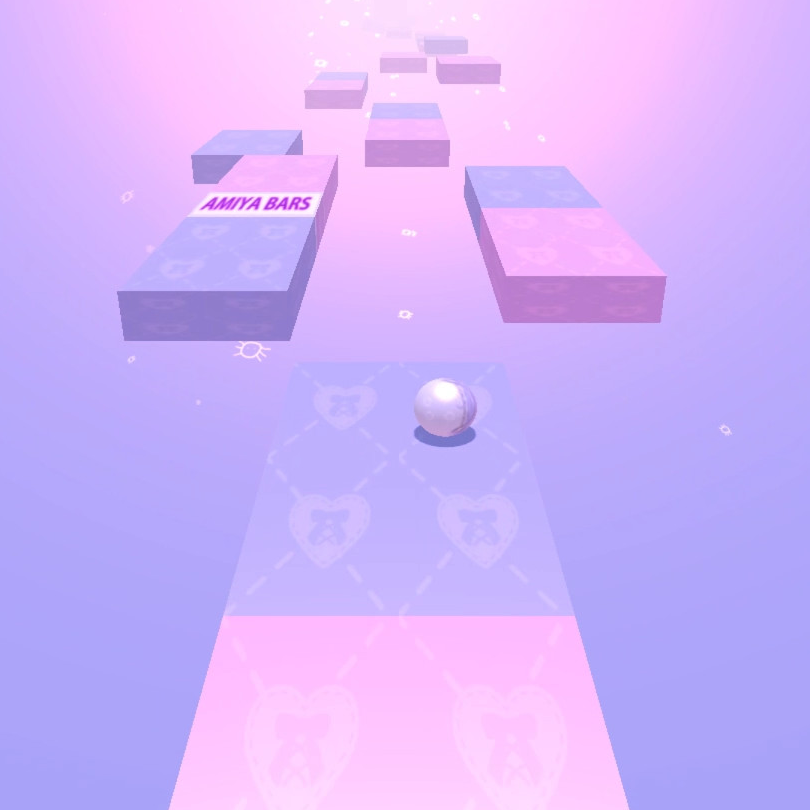
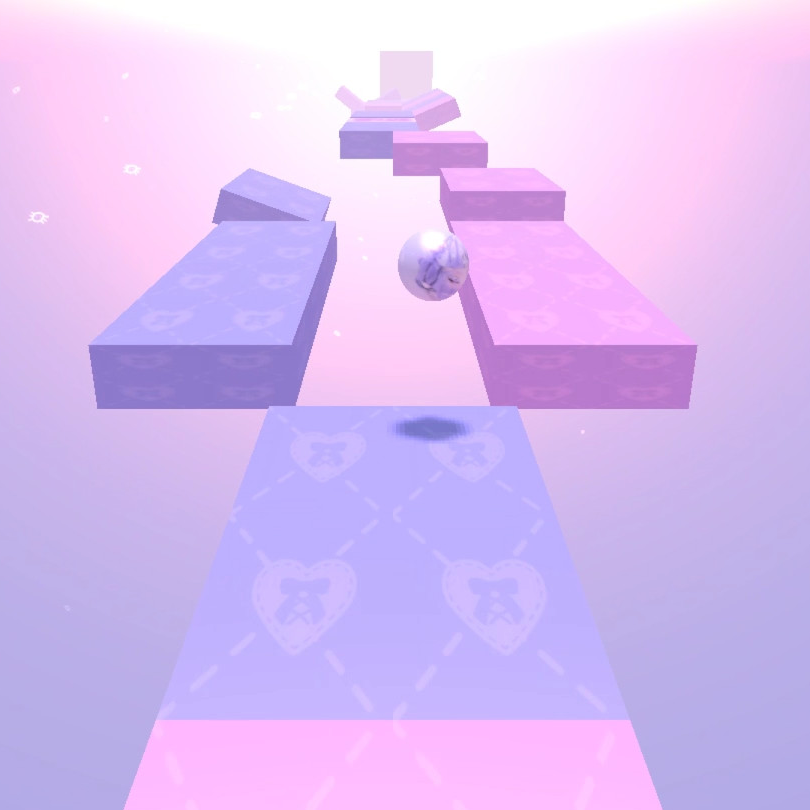
Replace level 1-2

diff --git a/js/maps/MapGenerator.js b/js/maps/MapGenerator.js
@@ -2,7 +2,7 @@ import * as THREE from 'three';
 import { ConvexGeometry } from '../jsm/geometries/ConvexGeometry.js';
 let mapData = {};
 mapData["1-1"] = "Tile0,c0bdf2,0,0.25,0,0,0,0|Tile1,ffbef4,-7.549517245077422e-14,0.2500004768371582,-11.999993324279785,-9.301209840306343e-14,1.1817645273406578e-33,-2.5410985186454742e-20|Tile2,c0bdf2,-3.3861802251067274e-14,0.2500009536743164,-24.000019073486328,-2.427072215080428e-13,-6.281645554053844e-34,5.176315327597851e-21|Tile3,ffbef4,6.522550105277428e-14,0.2500014305114746,-36.000064849853516,-1.875660217420805e-12,-1.9070465944374998e-31,2.033467017880087e-19|Tile4,c0bdf2,4.000000476837158,0.2500019073486328,-48.0001106262207,-3.761189276696442e-12,-6.690286628020419e-31,3.5575378614801786e-19|Tile5,ffbef4,4.000000476837158,0.250002384185791,-60.00015640258789,-5.6467179022912095e-12,9.663637573362777e-27,-3.422744943373801e-15|Tile6,c0bdf2,4.000000476837158,0.2500028610229492,-72.00004577636719,-7.532246527885977e-12,7.135962433915067e-25,-1.8947766532856347e-13|Tile7,ffbef4,4.000000476837158,0.2500033378601074,-83.99986267089844,-8.88764496026484e-12,1.754179236930123e-24,-3.947455697820429e-13|Tile8,c0bdf2,-0.6000004410743713,0.2500038146972656,-95.99967956542969,-1.0243043392643703e-11,3.072982304020927e-24,-6.000135284456309e-13|Tile9,ffbef4,-0.6000004410743713,0.25000429153442383,-107.99949645996094,-1.1598441825022565e-11,3.513949706890555e-24,-6.059347901904433e-13|Tile10,c0bdf2,-0.6000004410743713,0.25000476837158203,-119.99931335449219,-1.2953840257401428e-11,3.9629427786468064e-24,-6.118560519352556e-13|Tile11,ffbef4,-0.6000004410743713,-0.549994945526123,-131.59913635253906,-0.15041569556705242,4.6159394472277037e-14,-6.160393375975735e-13|Tile12,c0bdf2,-0.6000003218650818,-1.473527193069458,-143.5514678955078,-0.000020194444006400938,9.19529896793969e-13,-9.106761211796777e-8|Tile13,ffbef4,-0.6000003218650818,-1.473527193069458,-155.55128479003906,-0.000020194444006400938,9.19529896793969e-13,-9.106761211796777e-8|Tile14,c0bdf2,-0.6000003218650818,0.3264729976654053,-168.35108947753906,0.33764912185633267,-1.5095548775123893e-8,-9.099975528670269e-8|Tile15,ffbef4,-0.6000000834465027,2.1657118797302246,-179.32687377929688,-0.00003836862743842256,2.1520424084757622e-12,-1.1217719020351098e-7|Player,ffffff,3.000007390975952,6.915328502655029,-364.739990234375,0.0015631532491201209,0.006090078249492892,-0.0000045733961576767535|Tile17,c0bdf2,-0.5999994874000549,2.165323257446289,-191.3845672607422,-0.000043245228894029886,-8.958204388582269e-13,4.1429792929648115e-8|Tile18,ffbef4,-0.5999994874000549,2.165323257446289,-203.38438415527344,-0.000043245228894029886,-8.958204388582269e-13,4.1429792929648115e-8|AmiyaBar19,ffffff,-0.5999994874000549,2.165323257446289,-212.38424682617188,-0.000043245228894029886,-8.958204388582269e-13,4.1429792929648115e-8|Tile20,ffbef4,-0.5999994874000549,2.1653294563293457,-221.3841094970703,-0.000043246731379278625,-8.601896574433868e-13,3.978056284381638e-8|Tile21,c0bdf2,-0.5999994874000549,-1.2346704006195068,-238.58384704589844,-0.000043246731379278625,-8.601904256596572e-13,3.978059837095317e-8|Tile22,ffbef4,1.6000008583068848,-1.2346704006195068,-250.5836639404297,-0.000043246731379278625,-8.601904256596572e-13,3.978059837095317e-8|Tile23,c0bdf2,4.200001239776611,-1.2346704006195068,-262.583984375,-0.000043246731379278625,-8.601895806217597e-13,3.9780559291102704e-8|Tile24,ffbef4,7.199998378753662,-1.2346704006195068,-274.584716796875,-0.000043246731379278625,-8.601891196919975e-13,3.978053797482063e-8|Tile25,c0bdf2,3.800001382827759,-1.2346704006195068,-286.58544921875,-0.000043246731379278625,-8.601885051189811e-13,3.97805095531112e-8|Tile26,ffbef4,5.662441253662109e-7,-1.2346704006195068,-298.586181640625,-0.000043246731379278625,-8.601878905459648e-13,3.978048113140177e-8|Tile27,c0bdf2,-4.399999618530273,-1.2346704006195068,-310.5869140625,-0.000043246731379278625,-8.601878905459648e-13,3.978048113140177e-8|Tile28,ffbef4,-0.7999989986419678,-1.2346704006195068,-322.587646484375,-0.000043246731379278625,-8.601874296162025e-13,3.97804598151197e-8|Tile29,c0bdf2,3.600001811981201,-1.2346704006195068,-334.58837890625,-0.000043246731379278625,-8.601874296162025e-13,3.97804598151197e-8|Tile30,ffbef4,0.40000107884407043,-1.2346704006195068,-346.589111328125,-0.000043246731379278625,-8.601859700052887e-13,3.97803923135598e-8|Tile31,c0bdf2,-3.5999996662139893,-1.2346704006195068,-358.58984375,-0.000043246731379278625,-8.601859700052887e-13,3.97803923135598e-8|Tile32,ffbef4,0.000001043081283569336,-1.2346704006195068,-370.590576171875,-0.000043246731379278625,-8.601855090755264e-13,3.978037099727773e-8|Tile33,c0bdf2,0.000001043081283569336,-1.2346704006195068,-382.59130859375,-0.000043246731379278625,-8.601855090755264e-13,3.978037099727773e-8|Goal,00ff00,0.000001043081283569336,4.165327548980713,-391.59185791015625,0,0,0";
-mapData["1-2"] = "Tile0,c0bdf2,0,0.25,0,0,0,0|Tile1,ffbef4,-9.769963294327735e-14,0.2500007152557373,-11.999993324279785,-1.4728973249389377e-13,2.9110486771156162e-33,-3.952819558873597e-20|Tile2,c0bdf2,-7.882583474838611e-14,0.2500009536743164,-24.000019073486328,6.846353182727444e-14,-9.020798114429831e-34,-2.635212608425829e-20|Tile3,ffbef4,1.7125188799590324e-13,0.2500014305114746,-47.00010681152344,-1.6376368577181166e-12,-3.1884780935263985e-32,3.893998939385407e-20|Tile4,c0bdf2,2.829679849811195e-13,0.2500019073486328,-59.000152587890625,-3.648991265398083e-12,-4.847643445922909e-31,2.6569772813057476e-19|Tile5,ffbef4,4.078679939362867e-13,2.2500014305114746,-71.00006103515625,-5.3596593309335194e-12,-1.2467131947893334e-30,4.652210589556956e-19|Tile6,c0bdf2,1.047356645855757e-12,2.250002861022949,-82.9998779296875,-9.017845498116017e-12,-2.9304451107554885e-30,6.499213390532603e-19|Tile7,ffbef4,1.4709069465906888e-12,-0.34999561309814453,-111.59944152832031,-1.1413153408468268e-11,-4.407692625594931e-30,7.723882204763034e-19|Tile8,c0bdf2,6.799997806549072,-0.34999537467956543,-131.79913330078125,-1.215422727740556e-11,-5.072090110718265e-30,8.346215674520367e-19|Tile9,ffbef4,6.799997806549072,-0.3499948978424072,-143.7989501953125,-1.2688985279174503e-11,-3.9915415744691156e-25,6.291348735379398e-14|Tile10,c0bdf2,-6.7999982833862305,-0.33911848068237305,-131.7998046875,-4.169747853666322e-7,-3.160543813295284e-20,1.5159400156613378e-13|Tile11,ffbef4,-6.7999982833862305,-0.33911824226379395,-143.79962158203125,-4.169750127403076e-7,-6.915570133300213e-21,3.317018968523877e-14|Tile12,c0bdf2,-8.940696716308594e-8,-0.33911800384521484,-161.79934692382812,-4.1697524011398306e-7,1.7774324792809786e-20,-8.525362219565652e-14|Tile13,ffbef4,4.995730478185578e-7,-0.33911943435668945,-173.79916381835938,-0.000001609067794561964,-1.8365233661318123e-19,2.2827172010270236e-13|Tile14,c0bdf2,4.995730478185578e-7,1.4608807563781738,-186.198974609375,-0.000001609067794561964,-1.8365233661318123e-19,2.2827172010270236e-13|Tile15,ffbef4,5.075348781247158e-7,1.4608697891235352,-198.13241577148438,0.000027880261772198902,4.590973413221045e-18,3.2933502929974323e-13|Tile16,c0bdf2,5.074222144685336e-7,4.4610395431518555,-210.13223266601562,0.000027876234529657886,-5.756809494898125e-15,-4.130263353552266e-10|Tile17,ffbef4,5.074761588730325e-7,-1.3387906551361084,-232.7318878173828,0.00002787220183014866,-2.8756938203643213e-15,-2.0634852160306139e-10|Tile18,c0bdf2,5.075232820672682e-7,-1.3386235237121582,-244.73170471191406,0.000027868118198936114,4.58854811196961e-18,3.29304481903534e-13|Tile19,ffbef4,6.999998092651367,-1.3384562730789185,-265.73211669921875,0.00002786401819681885,-2.8748494800451775e-15,-2.063485216030611e-10|Tile20,c0bdf2,6.999318599700928,-1.3382891416549683,-277.7328796386719,0.00010709260116079806,-5.882329454130293e-11,-0.0000010985501148754704|Tile21,ffbef4,0.5993204116821289,-1.337646245956421,-300.3342590332031,0.00010712810055820129,-5.846471907160678e-11,-0.0000010914917538686843|Tile22,c0bdf2,0.5993204116821289,-1.3370035886764526,-312.3349914550781,0.00010716370181901155,-5.8099174461479495e-11,-0.000001084306973098347|Tile23,ffbef4,-7.000677585601807,-1.3363784551620483,-336.5364685058594,0.00010719660369953187,-5.792190097633433e-11,-0.000001080666720554501|Tile24,c0bdf2,-7.000677585601807,-1.3357138633728027,-348.5372009277344,0.00010723154284819599,-5.7757557909980753e-11,-0.0000010772494078994251|Tile25,ffbef4,0.5993204712867737,0.4647977352142334,-361.1379699707031,0.00010726065395477804,-5.73903179723538e-11,-0.0000010701094197431525|Tile26,c0bdf2,6.799318790435791,2.065244674682617,-375.9388732910156,0.00010728449726801661,-5.721096919639108e-11,-0.0000010665281706680796|Tile27,ffbef4,6.599318981170654,0.06565618515014648,-398.7402648925781,0.00010730635424481543,-5.702781989471695e-11,-0.000001062897354131767|Tile28,c0bdf2,6.599318981170654,0.0662999153137207,-419.1415100097656,0.0001073399109615256,-5.686496784871525e-11,-0.0000010595307458063174|Tile29,ffbef4,6.599318981170654,0.06694412231445312,-442.9429626464844,0.00010737513387253886,-5.6510119779512467e-11,-0.0000010525736797719367|Tile30,c0bdf2,-0.0006796419620513916,0.06733417510986328,-467.1444396972656,0.00010739625597761431,-5.6330602401633384e-11,-0.0000010490235808903996|Tile31,ffbef4,-0.0006796402740292251,0.0679783821105957,-479.1451721191406,0.00010742981997028231,-5.6155865066801795e-11,-0.0000010454427865626774|AmiyaBar,ffffff,-6.950000762939453,-1.3155920505523682,-272.59222412109375,0.00003065866986187839,6.479514651304152e-12,4.2268726474504897e-7|Tile33,ffbef4,-6.950000762939453,-1.3047664165496826,-281.5920715332031,0.00003126040247079617,6.426554218554006e-12,4.111626026315317e-7|Tile34,c0bdf2,-10.349310874938965,-1.2937648296356201,-293.5928039550781,0.000031607731221617237,6.61367532980743e-12,4.184846602584125e-7|Tile35,ffbef4,7.050682067871094,1.9064240455627441,-330.5950622558594,0.00003161335553685581,6.612559188328687e-12,4.183395958534794e-7|AmiyaBar,ffffff,-0.04413611441850662,0.08990645408630371,-458.1903381347656,0.00043620790457680087,3.8990441084731576e-10,0.000001787699943634877|Tile37,ffbef4,-6.844134330749512,0.09121513366699219,-497.3927307128906,0.000433846739692252,-0.000039713243804463133,-0.1840872623071561|Tile38,c0bdf2,-6.835370063781738,0.13869404792785645,-509.3934326171875,0.0004341526209791589,-0.00003974124340951776,-0.1840872623071561|Tile39,ffbef4,-6.826605796813965,0.18617653846740723,-521.3941040039062,0.0004343916216574067,-0.00003976312093156428,-0.18408726230715625|Tile40,c0bdf2,2.582157611846924,0.2336595058441162,-539.1951904296875,0.00043532189658208393,0.00002537955105362447,0.11686444375105157|Tile41,ffbef4,2.5796916484832764,0.2547426223754883,-551.1959228515625,0.00043341012398669115,0.000025268093468940046,0.11686444375105144|Tile42,c0bdf2,2.577226161956787,0.2758142948150635,-563.1966552734375,0.00043162146060717846,0.000025163813231461114,0.1168644437510513|Tile43,ffbef4,-3.0252187252044678,0.29670262336730957,-583.3978881835938,0.0004302390867397896,-0.0000035850817781786748,-0.01666630456824123|Goal,00ff00,-3.025170087814331,4.899662494659424,-595.5986328125,0,0,0|Tile45,ffbef4,2.1650444637089095e-7,-0.13884902000427246,-227.43214416503906,-0.00012968631963276246,-2.7013760906542913e-11,4.1660155147839164e-7|Tile46,c0bdf2,-6.949939727783203,-1.3156455755233765,-263.6321716308594,-0.00001912770312745346,-1.0415977787337488e-11,0.000001089098645934643|Player,ffffff,-3.6248707099753654e-26,3,-7.249741419950731e-26,1.536420781161052e-32,-5.901472041958843e-65,-7.68210390580526e-33";
+mapData["1-2"] = "Tile0,c0bdf2,0,1.5,0,0,0,0|Tile1,ffbef4,0,1.5,-12,-0.0000011446302323750192,-2.699436141208129e-13,4.7166955141621584e-7|Tile2,c0bdf2,0,1.5,-24,-0.0000011446302323750192,-2.699436141208129e-13,4.7166955141621584e-7|Tile3,ffbef4,0,1.5,-44.5,-0.0000011446302323750192,-2.699436141208129e-13,4.7166955141621584e-7|Tile4,c0bdf2,0,1.5,-56.5,-0.0000011446302323750192,-2.699436141208129e-13,4.7166955141621584e-7|Tile5,ffbef4,0,1.5,-80.5,-0.0000011446302323750192,-2.699436141208129e-13,4.7166955141621584e-7|Tile6,c0bdf2,0,1.5,-92.5,-0.0000011446302323750192,-2.699436141208129e-13,4.7166955141621584e-7|Tile7,ffbef4,0,1.5,-122.5,-0.0000011446302323750192,-2.699436141208129e-13,4.7166955141621584e-7|Tile8,c0bdf2,0,1.5,-134.5,-0.0000011446302323750192,-2.699436141208129e-13,4.7166955141621584e-7|Tile9,ffbef4,6,1.5,-152,-0.0000011446302323750192,-2.699436141208129e-13,4.7166955141621584e-7|Tile10,c0bdf2,-6,1.5,-152,-0.0000011446059033917467,-2.699384295386583e-13,4.716705177543365e-7|Tile11,ffbef4,6,1.5,-164,-0.0000011446059033917467,-2.699384295386583e-13,4.716705177543365e-7|Tile12,c0bdf2,-6,1.5,-164,-0.0000011446059033917467,-2.699384295386583e-13,4.716705177543365e-7|Tile13,ffbef4,6,3,-176,-0.0000011446059033917467,-2.699384295386583e-13,4.716705177543365e-7|Tile14,c0bdf2,-7.5,1.5,-182,0.000009038056305267004,-0.000001499382492788512,-0.3376721937412079|Tile15,ffbef4,3,4.5,-188,9.787673604932931e-8,-6.160301771980097e-16,-1.2587877407099791e-8|Tile16,c0bdf2,-1,4.5,-200,1.2777569224908874e-7,-6.779980345697631e-16,-1.0612316359015518e-8|AmiyaBar,ffffff,-1,4.5,-209,0.000004870919383412171,1.6480958484060844e-13,6.76708324931497e-8|Tile18,c0bdf2,-1,4.5,-220,0.000004870649718233092,1.6480215640136746e-13,6.767152882503086e-8|Tile19,ffbef4,4.5,4.5,-238,0.000004781184998155393,9.107934002178789e-7,0.38978676508310084|Tile20,c0bdf2,4.5,4.5,-250,0.000004426766736301849,8.432783774912281e-7,0.38978676508310073|Tile21,ffbef4,4.5,4.5,-262,0.000004426344276012871,8.43197900780286e-7,0.38978676508310084|Tile22,c0bdf2,4.5,4.5,-274,0.000004426344276012871,8.43197900780286e-7,0.38978676508310084|Tile23,ffbef4,-1.5,3,-286.5,1.7351625558603775e-7,7.20985175861636e-15,8.310289700830264e-8|Tile24,c0bdf2,-1.5,3,-298.5,-0.000003276359166199152,-1.5662139990867795e-13,9.560697833421742e-8|Tile25,ffbef4,-8,3.5,-316,1.202870159033865e-8,-3.745742290774901e-9,-0.6578393005921698|Tile26,c0bdf2,-1.5,3.5,-315.5,0.01324274255735157,0.0033494834622648786,0.5256580907152423|Tile27,ffbef4,-5.5,1,-329.5,0.09587603581718875,-0.0023363095155257553,-0.04882960352811204|Tile28,c0bdf2,3,1.5,-347.5,0.018133605652986533,0.0000011664334845097632,0.0001286558694030145|Goal,ffffff,3,6.5,-355.5,0,0,0|Player,ffffff,-1.3454872771490045e-8,3.249999523162842,-2.690974554298009e-8,2.859379942023177e-16,-2.0440134132111166e-32,-1.4296899710115885e-16";
 mapData["1-3"] = "Tile,c0bdf2,0,0,0,0,0,0|Tile,ffbef4,-1.682941969615793,0,-12,0,0,0|Tile,c0bdf2,-1.8185948536513634,0,-24,0,0,0|Tile,ffbef4,-0.2822400161197344,0,-36,0,0,0|Tile,c0bdf2,0.5588309963978517,0,-72,0,0,0|Tile,ffbef4,-1.3139731974375781,0,-84,0,0,0|Tile,c0bdf2,-1.9787164932467636,0,-96,0,0,0|Tile,ffbef4,-1.6733112770721121,0,-252,0,0,0.04|Tile,c0bdf2,0.017702618580807752,0,-264,0,0,0.04|Tile,ffbef4,1.6924408083503413,0,-276,0,0,0.04|Tile,c0bdf2,-1.5251169009592056,0,-298,0,0,0.04|Tile,ffbef4,-1.912751856809006,0,-324,0,0,0.04|Tile,ffbef4,0.317245337609418,0,-492,0,0,0|Tile,c0bdf2,1.8330430958312676,0,-504,0,0,0|Tile,ffbef4,1.6635494852571966,0,-516,0,0,0|Tile,c0bdf2,-1.8035766952976184,0,-552,0,0,0|Tile,ffbef4,-0.247146245490448,0,-564,0,0,0|AmiyaBar,ffffff,1.5365093226473336,0,-576,0,0,0|Tile,ffbef4,7.999980413101407,1.5,-132,0,0,0|Tile,c0bdf2,7.07314583600087,1.5,-144,0,0,0|Tile,ffbef4,5.159665926346718,1.5,-156,0,0,0|Tile,c0bdf2,4.0187852886102595,1.5,-168,0,0,0|Tile,c0bdf2,6.575806633330131,1.5,-192,0,0,0|Tile,ffbef4,7.922794983759114,1.5,-204,0,0,0|AmiyaBar,ffffff,7.5019744935433526,1.5,-216,0,0,0|Tile,ffbef4,5.700245580674095,1.5,-228,0,0,0|Tile,ffbef4,6.80807529064613,1.5,-372,0,0,0.04|Tile,c0bdf2,4.897146637516618,1.5,-384,0,0,0.04|Tile,ffbef4,4.000176279785466,1.5,-396,0,0,0.04|Tile,c0bdf2,4.9418346277599525,1.5,-408,0,0,0.04|Tile,c0bdf2,7.983557706886232,1.5,-432,0,0,0.04|Tile,ffbef4,7.287076266713999,1.5,-444,0,0,0.04|Tile,c0bdf2,5.407262842581229,1.5,-456,0,0,0.04|Tile,ffbef4,4.072409227431825,1.5,-468,0,0,0.04|Tile,ffbef4,4.659541648313251,1.5,-612,0,0,0|Tile,c0bdf2,4.026744815919029,1.5,-624,0,0,0|Tile,ffbef4,5.208149699636332,1.5,-636,0,0,0|Tile,c0bdf2,7.117578097703232,1.5,-648,0,0,0|Tile,c0bdf2,7.043102004173823,1.5,-672,0,0,0|Tile,ffbef4,5.12767048950435,1.5,-684,0,0,0|Tile,c0bdf2,4.014254703830925,1.5,-696,0,0,0|Tile,ffbef4,4.726523985721724,1.5,-708,0,0,0|Tile,c0bdf2,-7.973193476339988,-1,-120,0,0,0|Tile,ffbef4,-4.986732699485144,-1,-132,0,0,0|Tile,ffbef4,-3.697826692476052,-1,-156,0,0,0|Tile,c0bdf2,-6.58039570107137,-1,-168,0,0,0|AmiyaBar,ffffff,-8.585075124305089,-1,-192,0,0,0|Tile,ffbef4,-5.864092522275234,-1,-204,0,0,0|Tile,ffbef4,-3.1837633551029443,-1,-228,0,0,0|Tile,ffbef4,-2.851735281263341,-1,-362,0,0,-0.04|Tile,c0bdf2,-4.04875659972216,-1,-384,0,0,-0.04|Tile,c0bdf2,-9.074793510473839,-1,-408,0,0,-0.04|Tile,ffbef4,-8.282893945778369,-1,-420,0,0,-0.04|Tile,ffbef4,-3.06021971080697,-1,-444,0,0,-0.04|Tile,c0bdf2,-3.431147646567501,-1,-456,0,0,-0.04|Tile,c0bdf2,-2.8427270608197315,-1,-600,0,0,0|Tile,c0bdf2,-7.475599934427602,-1,-624,0,0,0|Tile,ffbef4,-9.15077350881819,-1,-636,0,0,0|Tile,ffbef4,-4.933864557855513,-1,-660,0,0,0|Tile,c0bdf2,-2.918788674745336,-1,-672,0,0,0|Tile,c0bdf2,-6.635332241738079,-1,-696,0,0,0|Tile,ffbef4,-8.949978676066673,-1,-708,0,0,0|Goal,00ff00,-8.949978676066673,3,-709,0,0,0|Player,ffffff,0,3,0,0,-0.6051864057360395,0";
 mapData["1-4"] = "Tile0,c0bdf2,0,1.25,0,0,0,0|Tile1,ffbef4,-6.217248937900877e-14,1.2500004768371582,-11.999993324279785,-8.339016326422422e-14,3.924122948179535e-34,-9.411476832695085e-21|Tile2,c0bdf2,-4.2743586448068527e-14,1.2500007152557373,-23.800018310546875,1.3698912067639651e-13,-6.446349677885885e-34,-9.411476832695085e-21|Tile3,ffbef4,5.745405507687901e-14,1.2500009536743164,-35.80006408691406,-7.364441088203444e-13,5.848053974832778e-33,-1.588186776101813e-20|Tile4,c0bdf2,-5.999998569488525,1.2500011920928955,-35.80006408691406,-2.015051320247707e-12,4.622626288441468e-33,-4.588097823606017e-21|Tile5,ffbef4,-5.999998569488525,1.2500014305114746,-47.80010986328125,-3.056810880808225e-12,2.128158865039973e-25,-1.3924046648756266e-13|Tile6,c0bdf2,-5.999998569488525,1.2500016689300537,-59.80015563964844,-4.335417875395153e-12,5.394885111814471e-25,-2.488749766167697e-13|Tile7,ffbef4,-5.999998569488525,1.2500019073486328,-71.800048828125,-5.377177002274802e-12,1.0434826810069866e-24,-3.881154295518052e-13|Tile8,c0bdf2,3.8743019104003906e-7,1.2500019073486328,-71.800048828125,-5.836069041226244e-12,9.890887757552623e-25,-3.389571880552805e-13|Tile9,ffbef4,3.8743019104003906e-7,1.250002145767212,-83.79986572265625,-6.103447608429846e-12,1.0344037193980538e-24,-3.389571880552805e-13|Tile10,c0bdf2,3.8743019104003906e-7,1.250002384185791,-95.7996826171875,-6.370826175633448e-12,1.0797186630408452e-24,-3.389571880552805e-13|Tile11,ffbef4,6.000679969787598,1.2608957290649414,-95.7996826171875,-6.7862343348934484e-12,3.127245796164427e-20,-9.216439167403223e-9|Tile12,c0bdf2,6.000679969787598,1.2608959674835205,-107.79949951171875,-7.053612902097051e-12,3.2504706746462297e-20,-9.216470253647913e-9|Tile13,ffbef4,6.000679969787598,1.2608962059020996,-119.79931640625,-7.320991902981522e-12,3.3736965841586043e-20,-9.216501339892602e-9|Tile14,c0bdf2,6.000679969787598,1.2608964443206787,-131.79913330078125,-7.588370903865993e-12,3.4969233248518836e-20,-9.216532426137292e-9|Tile15,ffbef4,0.000681072473526001,1.2608966827392578,-131.79913330078125,-7.855749904750464e-12,3.6201508967260676e-20,-9.216563512381981e-9|Tile16,c0bdf2,-0.07347646355628967,4.84999942779541,-53.799076080322266,-0.000011268510206957408,-7.857537080878837e-12,0.0000013946008721181752|Tile17,ffbef4,-0.07347646355628967,4.84999942779541,-116.3983154296875,-0.000011268510206957408,-7.857537080878837e-12,0.0000013946008721181752|Tile18,c0bdf2,-6.258487701416016e-7,1.260896921157837,-143.79827880859375,-0.000002774695076372077,1.66530255193223e-14,-1.2003499527679781e-8|Tile19,ffbef4,-6.258487701416016e-7,1.260896921157837,-155.798095703125,-0.000002774695076372077,1.66530255193223e-14,-1.2003499527679781e-8|Tile20,c0bdf2,-6.258487701416016e-7,1.260896921157837,-188.59759521484375,-0.000002774695076372077,1.66530255193223e-14,-1.2003499527679781e-8|Tile21,ffbef4,-6.258487701416016e-7,1.260896921157837,-212.59722900390625,-0.000002774695076372077,1.66530255193223e-14,-1.2003499527679781e-8|Tile22,c0bdf2,-6.258487701416016e-7,1.260896921157837,-230.59695434570312,-0.000002774695076372077,1.66530255193223e-14,-1.2003499527679781e-8|Tile23,ffbef4,5.999998092651367,1.260896921157837,-230.59695434570312,-0.000002774695076372077,1.66530255193223e-14,-1.2003499527679781e-8|Tile24,c0bdf2,5.999998092651367,1.260896921157837,-254.7965850830078,-0.000002774695076372077,1.66530255193223e-14,-1.2003499527679781e-8|Tile25,ffbef4,-0.0000011026859283447266,1.260896921157837,-272.5975646972656,-0.000002774695076372077,1.66530255193223e-14,-1.2003499527679781e-8|Tile26,c0bdf2,-7.399998664855957,1.260896921157837,-287.9985046386719,-0.000002688432005019022,6.65128415575507e-7,-0.5133994294317872|Tile27,ffbef4,-7.305878162384033,1.239469289779663,-299.9992370605469,-0.0000025159154120073407,6.22447184595364e-7,-0.5133994623885403|Tile28,c0bdf2,-7.211751461029053,1.2180531024932861,-311.9999694824219,-0.0000023628940653019815,5.845891127440586e-7,-0.5133994623885403|Tile29,ffbef4,-7.1176323890686035,1.196626901626587,-323.8006896972656,-0.000002207932539024088,5.462510329772333e-7,-0.5133994623885402|Tile30,c0bdf2,0.1764894723892212,-1.4247944056987762,-335.4013977050781,-1.6161345683940525e-7,1.0311584309547236e-10,-0.0012760802608562654|Tile31,ffbef4,0.1764894723892212,-1.4247929751873016,-347.4021301269531,-1.7047469214049022e-8,1.147330578202497e-12,-0.00013460421218670907|Tile32,c0bdf2,6.176488876342773,2.3752079010009766,-362.4030456542969,-1.639210900350469e-8,-4.712476720363144e-9,0.6031889723440547|Tile33,ffbef4,6.034595012664795,2.4015960693359375,-381.4042053222656,-3.42913395456892e-8,-9.858227473022467e-9,0.6031889723440546|Tile34,c0bdf2,5.892698764801025,2.427985668182373,-401.4054260253906,-6.465060664595511e-8,-1.8586045194750847e-8,0.6031889723440538|Tile35,ffbef4,-6.2491865158081055,2.654362201690674,-415.0062561035156,-9.035024817194406e-8,2.598590902182462e-8,-0.6034806522342421|Tile36,c0bdf2,-6.107123374938965,2.880901336669922,-438.6076965332031,-7.287087555596379e-8,2.0958613626984794e-8,-0.6034806522342424|Tile37,ffbef4,3.233452320098877,3.1050705909729004,-452.6085510253906,-6.671483276932135e-8,-8.864556147139583e-9,0.26880462114666204|Tile38,c0bdf2,-3.982316255569458,3.1633543968200684,-472.0097351074219,-7.790927014639286e-8,9.718498489163171e-9,-0.2520211226295307|Tile39,ffbef4,1.2303059101104736,3.2131576538085938,-494.2110900878906,-7.951898339797489e-8,-3.3069603146027194e-9,0.08326980875434409|Tile40,c0bdf2,-0.37019237875938416,3.21913480758667,-520.212646484375,-8.19647496541621e-8,5.546240928464378e-12,-0.0001353323463756218|Tile41,ffbef4,-0.37019237875938416,3.21913480758667,-532.21337890625,-2.909109575455218e-8,6.986479125175369e-13,-0.0000480317358054039|Goal,00ff00,-0.37019237875938416,5.219133377075195,-539.6138305664062,0,0,0|AmiyaBar,ffffff,5.999307632446289,1.2719132900238037,-140.79762268066406,-0.000001029617806125492,7.454042819705844e-16,-1.4479242249620938e-9|AmiyaBar,ffffff,6.235138416290283,2.252838134765625,-371.329345703125,0.000001824798573580766,5.101355766663709e-7,0.5852492442861101|Player,ffffff,0,3,0,0,0,0";
 mapData["1-5"] = "Tile0,c0bdf2,0,1.25,0,0,0,0|Tile1,ffbef4,-6.217248937900877e-14,1.2500004768371582,-11.999993324279785,-8.339016326422422e-14,3.924122948179535e-34,-9.411476832695085e-21|Tile2,c0bdf2,-4.2743586448068527e-14,1.2500007152557373,-24.000019073486328,1.3698912067639651e-13,-6.446349677885885e-34,-9.411476832695085e-21|Boost3,ffffff,5.745405507687901e-14,1.2500009536743164,-36.000064849853516,-7.364441088203444e-13,5.848053974832778e-33,-1.588186776101813e-20|Tile4,c0bdf2,1.6361915891171391e-13,1.2500011920928955,-48.0001106262207,-1.9817446295089525e-12,3.6719472515775156e-33,-3.705772375411832e-21|Tile5,ffbef4,3.246276136792403e-9,1.2608990669250488,-98.59896087646484,6.850426004234578e-9,2.3611019789193848e-24,6.893299708543305e-16|Tile6,c0bdf2,3.2462155186152586e-9,1.260899305343628,-110.5987777709961,6.849909528483522e-9,2.360901665993926e-24,6.893234592885485e-16|Tile7,ffbef4,3.2461593413302126e-9,1.260899543762207,-122.59859466552734,6.849540490350137e-9,2.3607612373471865e-24,6.893195947007267e-16|Tile8,c0bdf2,4.400000095367432,1.2609000205993652,-134.59841918945312,6.848919653634766e-9,2.3605472598906792e-24,6.893195947007267e-16|Tile9,ffbef4,4.400000095367432,1.2609002590179443,-146.59823608398438,6.8483858584045265e-9,-1.0337214695659608e-22,-3.0188762459911617e-14|Tile10,c0bdf2,4.400000095367432,1.2609007358551025,-158.59805297851562,6.847673983401137e-9,7.165330236416529e-23,2.092777855308356e-14|Tile11,ffbef4,4.399319648742676,1.2717938423156738,-170.59786987304688,6.847941325105467e-9,9.280963065265479e-18,2.710584867671173e-9|Tile12,c0bdf2,-4.200681686401367,1.271794319152832,-134.59841918945312,6.8498073879652566e-9,9.283934726308019e-18,2.7107140976312394e-9|Tile13,ffbef4,-4.200681686401367,1.2717945575714111,-146.3982391357422,6.849273592735017e-9,9.283105544504789e-18,2.710683233431155e-9|Tile14,c0bdf2,-4.200681686401367,1.2717947959899902,-158.39805603027344,6.848799305458897e-9,9.282490856891501e-18,2.710691449081537e-9|Tile15,ffbef4,-4.200681686401367,1.2717950344085693,-170.3978729248047,6.848250855284732e-9,9.282006782517851e-18,2.7107671662918165e-9|AmiyaBar,ffffff,3.246276136792403e-9,1.2717759609222412,-179.3970489501953,5.376299583303992e-8,1.8530213636747555e-23,6.893296532169758e-16|Boost17,ffffff,3.2462297294699738e-9,1.2717759609222412,-188.39691162109375,5.376266898338147e-8,1.852993448210484e-23,6.89323459288549e-16|Boost18,ffffff,3.246149571367596e-9,1.2717761993408203,-200.396728515625,5.376213252361597e-8,1.852994169964702e-23,6.893306061290415e-16|Boost19,ffffff,3.2460374388421087e-9,1.2717764377593994,-212.39654541015625,5.3761446849875964e-8,1.852894830715825e-23,6.893024422835453e-16|Boost20,ffffff,3.2459572807397308e-9,1.2717766761779785,-224.3963623046875,5.3760910390110466e-8,1.8528968333325663e-23,6.893100655800706e-16|Boost21,ffffff,3.2458451482142436e-9,1.2717769145965576,-236.39617919921875,5.376022471637046e-8,1.8527822701809886e-23,6.892762372017396e-16|Tile22,c0bdf2,-5.999998569488525,1.2717771530151367,-260.1961364746094,5.375968825660496e-8,1.852773885082967e-23,6.89279995910443e-16|Tile23,ffbef4,6.599998474121094,1.271777629852295,-287.1977844238281,5.3758483886667845e-8,-8.602488001188776e-21,-3.200420614288271e-13|Tile24,c0bdf2,-5.199999809265137,1.2717781066894531,-312.2421569824219,5.37579722958981e-8,-1.4376767688350246e-20,-5.34870162483686e-13|Tile25,ffbef4,7.799996852874756,1.2717781066894531,-337.8008728027344,5.37576028136755e-8,-1.4012767665258477e-20,-5.213315673255337e-13|Tile26,c0bdf2,-3.2782554626464844e-7,4.2717766761779785,-355.4019470214844,5.375716582989301e-8,-1.7589765289867325e-20,-6.544156492746538e-13|Tile27,ffbef4,7.999996662139893,4.2717766761779785,-380.2034606933594,5.3755940143673824e-8,-1.7589364235745857e-20,-6.544156492746538e-13|Tile28,c0bdf2,-4.200000762939453,4.2717766761779785,-400.4046936035156,5.3755549345169156e-8,-2.148453809436823e-20,-7.993421462931805e-13|Tile29,ffbef4,5.399999141693115,-1.5282222628593445,-414.4055480957031,5.37551905210876e-8,-1.9495468750434716e-20,-7.253427459358313e-13|Tile30,c0bdf2,-4.40000057220459,1.2717785835266113,-431.2065734863281,5.375443379307401e-8,-2.521612724796977e-20,-9.381971111457877e-13|Boost31,ffffff,5.399999141693115,1.2717788219451904,-447.4075622558594,5.2398725358671066e-8,1.1690487032307243e-8,0.46007777307507697|Boost32,ffffff,5.32947301864624,1.4219682216644287,-459.2082824707031,5.43936309327365e-8,1.2135563893534326e-8,0.46007780552272526|Boost33,ffffff,5.258944034576416,1.5721633434295654,-471.0090026855469,7.154128667252742e-8,1.5961314597911773e-8,0.4600778055227251|Tile34,c0bdf2,5.188405990600586,1.7223758697509766,-482.8097229003906,8.968302722678368e-8,2.00088519264705e-8,0.46007780552272526|Tile35,ffbef4,-5.082132339477539,1.8725907802581787,-499.2107238769531,1.1431193058797374e-7,-2.3643084921038314e-8,-0.424816245734503|Tile36,c0bdf2,-2.4251785278320312,2.0043845176696777,-516.811767578125,6.50997336038017e-8,-8.654263150471608e-9,-0.26894150897041746|Tile37,ffbef4,5.390671730041504,2.0629453659057617,-535.8129272460938,8.235549842083865e-8,1.3725334202870763e-9,0.033338089457551144|Tile38,c0bdf2,7.3906378746032715,2.0639166831970215,-558.8143310546875,8.187045352769926e-8,1.492565111207159e-8,0.37235860733954107|Tile39,ffbef4,-0.8480234146118164,2.166430711746216,-570.4150390625,1.0025129881796632e-7,-1.6707620746087801e-9,-0.033337649629242114|Goal,ffffff,-0.8479909896850586,5.367399215698242,-577.8154907226562,0,0,0|Player,ffffff,0,3,0,0,0,0";
@@ -281,8 +281,12 @@ class MapGenerator {
 
         const rbInfo = new Ammo.btRigidBodyConstructionInfo(mass, motionState, physicsShape, localInertia);
         const body = new Ammo.btRigidBody(rbInfo);
+        if (this.levelSelected == "*-*") {
+            body.setFriction(0);
+        } else {
+            body.setFriction(0.2);
+        }
 
-        body.setFriction(0.2);
         body.setRollingFriction(0);
         //body.setDamping(50);
         if (vel) {
